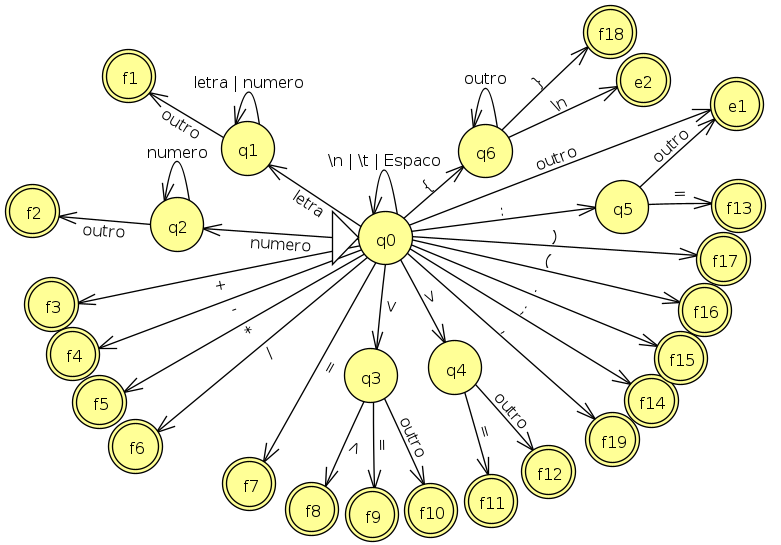
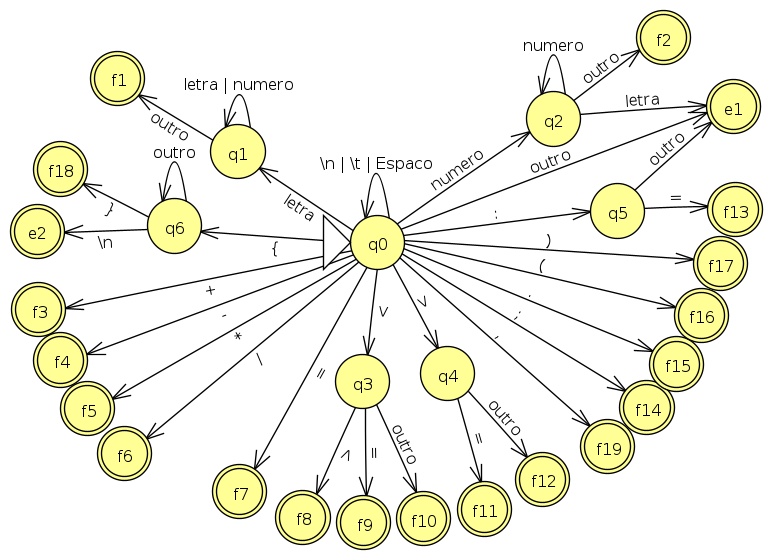
terminei, e esse considera o erro de um numero com letra

diff --git a/Analisador_lexico/src/hash_2d.c b/Analisador_lexico/src/hash_2d.c
@@ -15,6 +15,8 @@ unsigned int hash_function(const char* key) {
     return value % TABLE_SIZE;  
 }
 
+
+// Função para criar uma tabela hash 2D
 hash_table_2d_t* create_table() {
     hash_table_2d_t* table = malloc(sizeof(hash_table_2d_t));
     table->buckets = malloc(sizeof(node_t**) * TABLE_SIZE);
@@ -29,6 +31,7 @@ hash_table_2d_t* create_table() {
     return table;
 }
 
+// Função para inserir um valor na tabela
 void insert(hash_table_2d_t* table, const char* key1, const char* key2, const char* value) {
     unsigned int index1 = hash_function(key1);
     unsigned int index2 = hash_function(key2);
@@ -55,25 +58,24 @@ char* find(hash_table_2d_t* table, const char* key1, const char* key2) {
     }
 
     // Essa parte tem como papel simular o comportamento da transicao pelo caracter "outros"
-    if((strcmp(key1, "q1")) == 0){
+    if((strcmp(key1, "q1")) == 0){  // Se o estado atual for q1 e o simbolo for "outros" vai para o estado f1
         return "f1";
     }
-    if(strcmp(key1, "q2") == 0){
+    if(strcmp(key1, "q2") == 0){    // Se o estado atual for q2 e o simbolo for "outros" vai para o estado f2
         return "f2";
     }
-    if(strcmp(key1, "q3") == 0){
+    if(strcmp(key1, "q3") == 0){    // Se o estado atual for q3 e o simbolo for "outros" vai para o estado f10
         return "f10";
     }
-    if((strcmp(key1, "q4")) == 0){
+    if((strcmp(key1, "q4")) == 0){  // Se o estado atual for q4 e o simbolo for "outros" vai para o estado f12
         return "f12";
     }
-    if((strcmp(key1, "q0") == 0) || (strcmp(key1, "q5") == 0)){
+    if((strcmp(key1, "q0") == 0) || (strcmp(key1, "q5") == 0)){ // Se o estado atual for q0 ou q5 e o simbolo for "outros" vai para o estado e1
         return "e1";
     }
-    if((strcmp(key1, "q6")) == 0){
+    if((strcmp(key1, "q6")) == 0){  // Se o estado atual for q6 e o simbolo for "outros" vai para o estado q6
         return "q6";
     }
-
     return NULL;
 }
 
@@ -102,6 +104,7 @@ int count_collisions(hash_table_2d_t* table) {
     return total_collisions;
 }
 
+// Função para deletar um valor da tabela
 int delete(hash_table_2d_t* table, const char* key1, const char* key2) {
     unsigned int index1 = hash_function(key1);
     unsigned int index2 = hash_function(key2);
@@ -123,6 +126,7 @@ int delete(hash_table_2d_t* table, const char* key1, const char* key2) {
     return 0;
 }
 
+// Função para liberar a memória alocada para a tabela hash
 void free_table(hash_table_2d_t* table) {
     for (int i = 0; i < TABLE_SIZE; i++) {
         for (int j = 0; j < TABLE_SIZE; j++) {

diff --git a/Analisador_lexico/src/lexico.c b/Analisador_lexico/src/lexico.c
@@ -82,30 +82,17 @@ Token* lexico(FILE *file) {
             tempStr[0] = ' ';
         } 
         
-
-        printf("Caractere lido: x%sx\n", tempStr);
-
-        printf("Estado atual: x%sx\n", state);
-        printf("find: %s\n", find(table, state, tempStr));
         strcpy(state, find(table, state, tempStr));     // Pega o proximo estado do automato finito
         
-        // Se o estado atual for q0, f1, f2, e2, f10, f12 desconsidera o caractere lido
+        // Se o estado atual for q0, f1, f2, e2, f10, f12 nao adiciona o caractere lido ao buffer
         if(strcmp(state, "q0") && strcmp(state, "f1") && strcmp(state, "f2") && strcmp(state, "e2") && strcmp(state, "f10") && strcmp(state, "f12"))
             strcat(buffer, tempStr);                    // Adiona o caractere lido ao buffer
-        else
-            printf("Desconsiderando: x%sx\n", tempStr);
-        printf("Novo estado: x%sx\n", state);
-        printf("Buffer: x%sx\n", buffer);
-        printf("i = %d\n", i);
     
         final_state = (strncmp(state, "f", 1) == 0);    // Verifica se o estado atual é final
         error = (strncmp(state, "e", 1) == 0);          // Verifica se o estado atual é de erro
-        printf("error: %d\n", error);
-        printf("final_state: %d\n\n", final_state);
-
     }
     
-    if(error){
+    if(error){  // Se o estado atual for de erro, retorna um erro lexico ou de comentario
         if(strcmp(state, "e1") == 0){
             tk = create_token(buffer, "<ERRO_LEXICO>");
         } else {
@@ -115,7 +102,7 @@ Token* lexico(FILE *file) {
         free(buffer); 
         return tk;
     }
-    if(final_state){
+    if(final_state){    // Se o estado atual for final, cria o token correspondente
         if(strcmp(state, "f1") == 0){
             if(is_keyword(buffer)){ // Se for uma palavra reservada o token é "keyword" senão é "id"
                 tk = create_token(buffer, buffer);
@@ -169,8 +156,7 @@ Token* lexico(FILE *file) {
     }
 
     // Terminou de ler o arquivo mas ele pode nao estar em um estado final
-    printf("Terminou de ler o arquivo\n");
-    if(strcmp(state, "q0") == 0){   // Se o estado atual for q0, retorna NULL
+    if(strcmp(state, "q0") == 0){   // Se o estado atual for q0, retorna NULL pois só leu espaços em branco
         free_table(table);  
         free(buffer);  
         return NULL;

diff --git a/Analisador_lexico/src/variaveis.c b/Analisador_lexico/src/variaveis.c
@@ -62,6 +62,24 @@ char *transition_table[][3] = { // estado atual,  simbolo,  proximo estado
     {"q2", "3", "q2"}, {"q2", "4", "q2"}, {"q2", "5", "q2"},
     {"q2", "6", "q2"}, {"q2", "7", "q2"}, {"q2", "8", "q2"},
     {"q2", "9", "q2"},
+    {"q2", "a", "e1"}, {"q2", "b", "e1"}, {"q2", "c", "e1"}, // e assim por diante para todas as letras
+    {"q2", "d", "e1"}, {"q2", "e", "e1"}, {"q2", "f", "e1"},
+    {"q2", "g", "e1"}, {"q2", "h", "e1"}, {"q2", "i", "e1"},
+    {"q2", "j", "e1"}, {"q2", "k", "e1"}, {"q2", "l", "e1"},
+    {"q2", "m", "e1"}, {"q2", "n", "e1"}, {"q2", "o", "e1"},
+    {"q2", "p", "e1"}, {"q2", "q", "e1"}, {"q2", "r", "e1"},
+    {"q2", "s", "e1"}, {"q2", "t", "e1"}, {"q2", "u", "e1"},
+    {"q2", "v", "e1"}, {"q2", "w", "e1"}, {"q2", "x", "e1"},
+    {"q2", "y", "e1"}, {"q2", "z", "e1"},
+    {"q2", "A", "e1"}, {"q2", "B", "e1"}, {"q2", "C", "e1"}, // e assim por diante para todas as letras maiúsculas
+    {"q2", "D", "e1"}, {"q2", "E", "e1"}, {"q2", "F", "e1"},
+    {"q2", "G", "e1"}, {"q2", "H", "e1"}, {"q2", "I", "e1"},
+    {"q2", "J", "e1"}, {"q2", "K", "e1"}, {"q2", "L", "e1"},
+    {"q2", "M", "e1"}, {"q2", "N", "e1"}, {"q2", "O", "e1"},
+    {"q2", "P", "e1"}, {"q2", "Q", "e1"}, {"q2", "R", "e1"},
+    {"q2", "S", "e1"}, {"q2", "T", "e1"}, {"q2", "U", "e1"},
+    {"q2", "V", "e1"}, {"q2", "W", "e1"}, {"q2", "X", "e1"},
+    {"q2", "Y", "e1"}, {"q2", "Z", "e1"},
 
     // Transições a partir de q3
     {"q3", "=", "f8"}, {"q3", ">", "f9"},

diff --git a/Analisador_lexico/headers/hash_2d.h b/Analisador_lexico/headers/hash_2d.h
@@ -14,12 +14,12 @@ typedef struct {
     node_t*** buckets;
 } hash_table_2d_t;
 
-unsigned int hash_function(const char* key);    // Função de hash
-hash_table_2d_t* create_table();            // Cria uma tabela hash
+unsigned int hash_function(const char* key);                                                  // Função de hash
+hash_table_2d_t* create_table();                                                              // Cria uma tabela hash
 void insert(hash_table_2d_t* table, const char* key1, const char* key2, const char* value);   // Insere um valor na tabela
-char* find(hash_table_2d_t* table, const char* key1, const char* key2);  // Encontra um valor da tabela
-int delete(hash_table_2d_t* table, const char* key1, const char* key2);   // Deleta um valor da tabela
-void free_table(hash_table_2d_t* table);   // Libera a memória alocada pela tabela
-int count_collisions(hash_table_2d_t* table);  // Conta as colisões na tabela
+char* find(hash_table_2d_t* table, const char* key1, const char* key2);                       // Encontra um valor da tabela
+int delete(hash_table_2d_t* table, const char* key1, const char* key2);                       // Deleta um valor da tabela
+void free_table(hash_table_2d_t* table);                                                      // Libera a memória alocada pela tabela
+int count_collisions(hash_table_2d_t* table);                                                 // Conta as colisões na tabela
 
 #endif

diff --git a/Analisador_lexico/src/main.c b/Analisador_lexico/src/main.c
@@ -6,13 +6,13 @@
 int main(int argc, char **argv) {
 
     // Verifica se a quantidade de argumentos passados é correta
-    if ( argc  != 1){
+    if ( argc  != 2){
         printf("Quantidade de argumentos errada. Use ""make run ARGS=seu_arquivo.txt"" \n");
         exit(-1);
     }
 
     // Abre o arquivo de entrada
-    FILE *file_in = fopen("teste.txt", "r");
+    FILE *file_in = fopen(argv[1], "r");
     if (file_in == NULL) {
         printf("Failed to open file\n");
         exit(-1);
@@ -42,5 +42,4 @@ int main(int argc, char **argv) {
 
     fclose(file_in);   // Fecha o arquivo de entrada
     fclose(file_out);   // Fecha o arquivo de saida
-
 }

diff --git a/Analisador_lexico/README.md b/Analisador_lexico/README.md
@@ -64,7 +64,7 @@ Baseado-se na gramática, os tokens podem incluir:
 |--------|-------|--------|----|----|----|----|----|----|----|----|----|----|----|----|----|----|----|----|----|--------|-------|
 | q0     | q1    | q2     | f3 | f4 | f5 | f6 | q3 | q4 | f7 | f16| f17| f14| q5 | f19| f15| q6 | e1 | q0 | q0 | q0     | e1    |
 | q1     | q1    | q1     | f1 | f1 | f1 | f1 | f1 | f1 | f1 | f1 | f1 | f1 | f1 | f1 | f1 | f1 | f1 | f1 | f1 | f1     | f1    |
-| q2     | f2    | q2     | f2 | f2 | f2 | f2 | f2 | f2 | f2 | f2 | f2 | f2 | f2 | f2 | f2 | f2 | f2 | f2 | f2 | f2     | f2    |
+| q2     | e1    | q2     | f2 | f2 | f2 | f2 | f2 | f2 | f2 | f2 | f2 | f2 | f2 | f2 | f2 | f2 | f2 | f2 | f2 | f2     | f2    |
 | q3     | f10   | f10    | f10| f10| f10| f10| f10| f8 | f9 | f10| f10| f10| f10| f10| f10| f10| f10| f10| f10| f10    | f10   |
 | q4     | f12   | f12    | f12| f12| f12| f12| f12| f12| f11| f12| f12| f12| f12| f12| f12| f12| f12| f12| f12| f12    | f12   |
 | q5     | e1    | e1     | e1 | e1 | e1 | e1 | e1 | e1 | f13| e1 | e1 | e1 | e1 | e1 | e1 | e1 | e1 | e1 | e1 | e1     | e1    |
@@ -85,9 +85,3 @@ ja existe um programa teste na pasta que utilizaremos, portanto o comando para r
 Ao rodar o programa com um arquivo de entrada será gerado um arquivo de saida
 chamado `saida.txt` que contem os tokens gerados pelo analizador lexico.
 
-# **O que falta fazer**
-
-- Arrumar o bgl do lookahead
-- Colocar q o estado dos erros lexicos no programa esta como NULL pois facilita a implementacao
-- Colocar q caso o automato nao chege em um estado final é para ele retornar um erro
-- Tirar o bgl q facilita o teste pra funcionar a entrada
